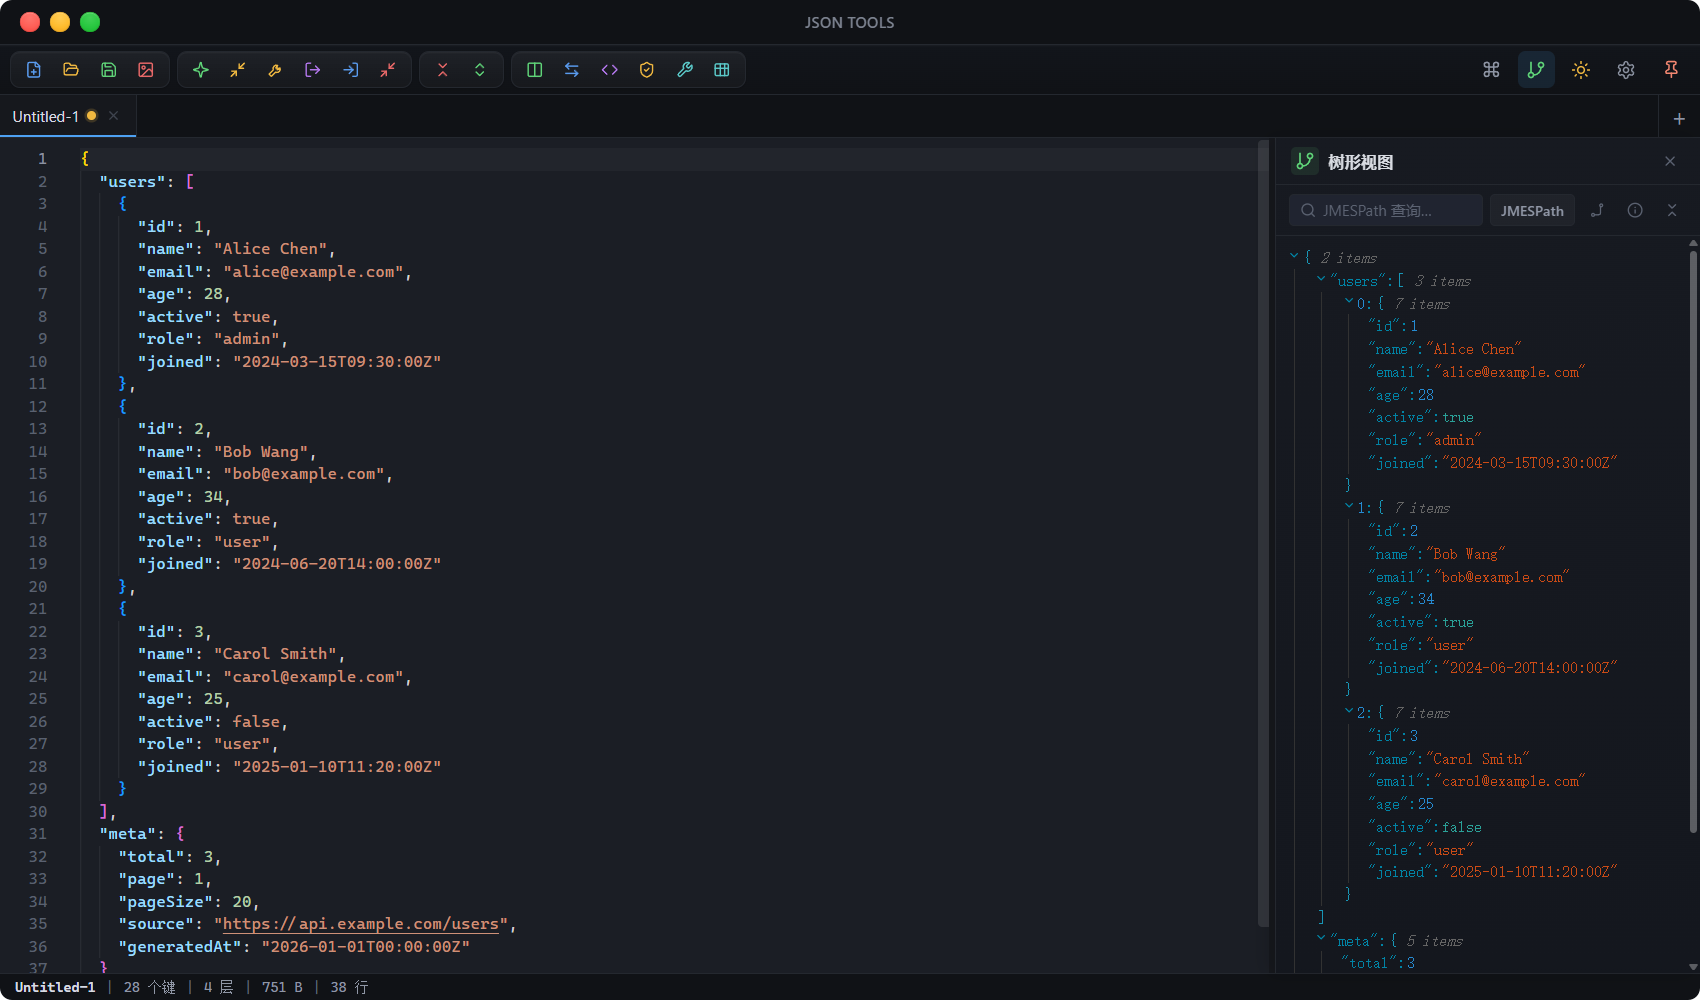
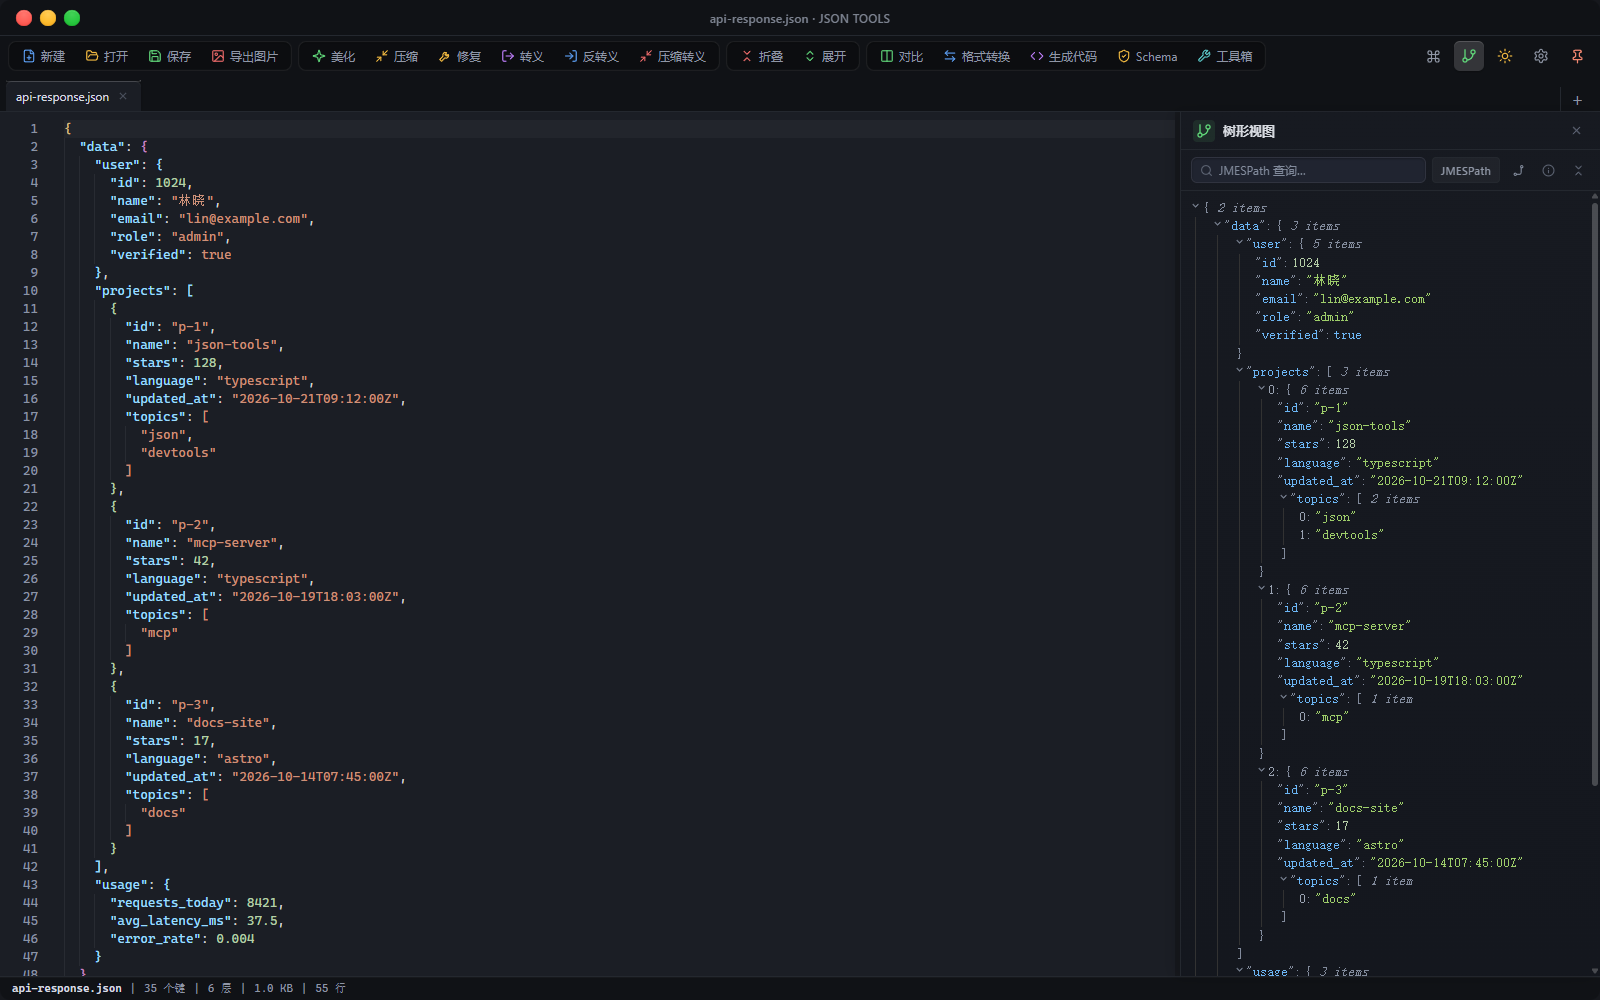
docs: 更新 README 主界面截图为质感改造后的深色界面
docs/page1.png 还是 10 月 16 日的旧截图，此后 chrome 合并、标签页抬起、
树形面板与状态栏都改过一轮，README 首图与实现已不符。
用无头浏览器按 1600×1000 重新截取（编辑器 + 树形视图 + 状态栏同屏，示例为真实接口响应形状），
体积 584KB → 141KB。顺带补命令面板中文关键词检索用例。

diff --git a/src/commands.test.ts b/src/commands.test.ts
@@ -26,6 +26,13 @@ describe('searchCommands', () => {
     expect(searchCommands('zzzz不存在')).toHaveLength(0)
   })
 
+  it('中文关键词能同时命中同类工具', () => {
+    const ids = searchCommands('排序').map(c => c.id)
+    expect(ids).toContain('tool.sort')
+    expect(ids).toContain('tool.sortByField')
+    expect(searchCommands('sql').map(c => c.id)).toContain('tool.sql')
+  })
+
   it('命令 id 唯一', () => {
     const ids = COMMANDS.map(c => c.id)
     expect(new Set(ids).size).toBe(ids.length)
